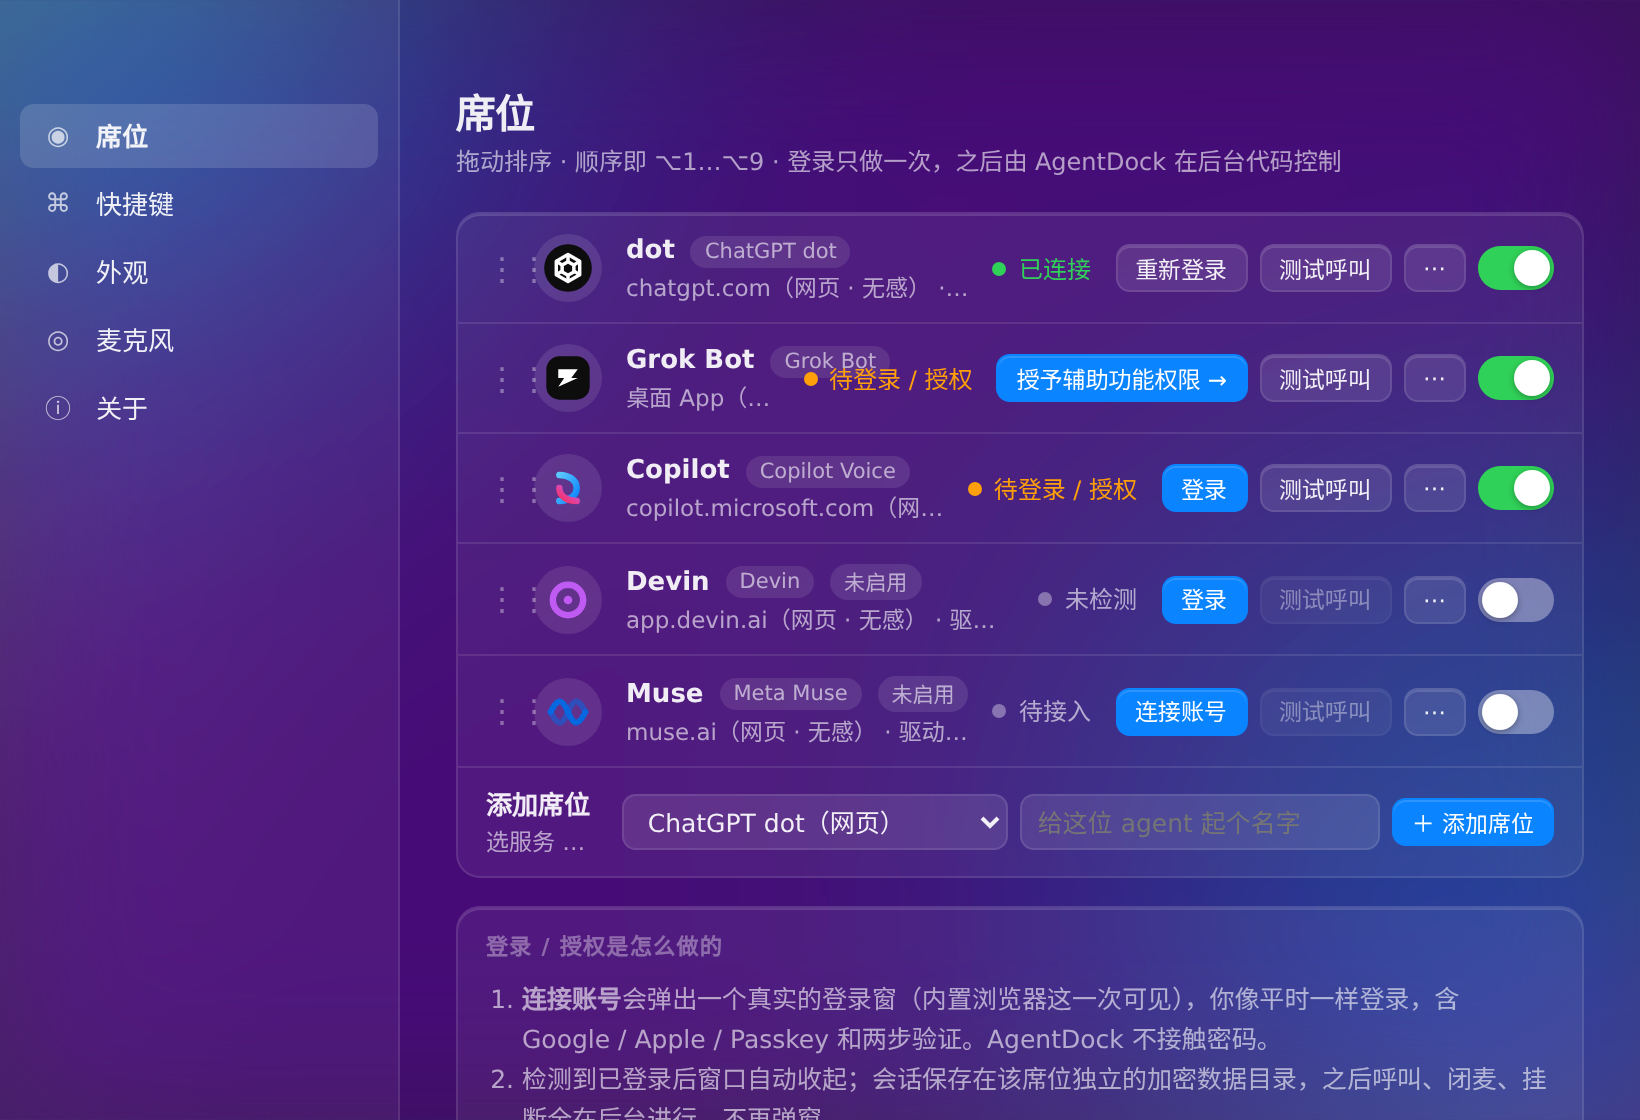
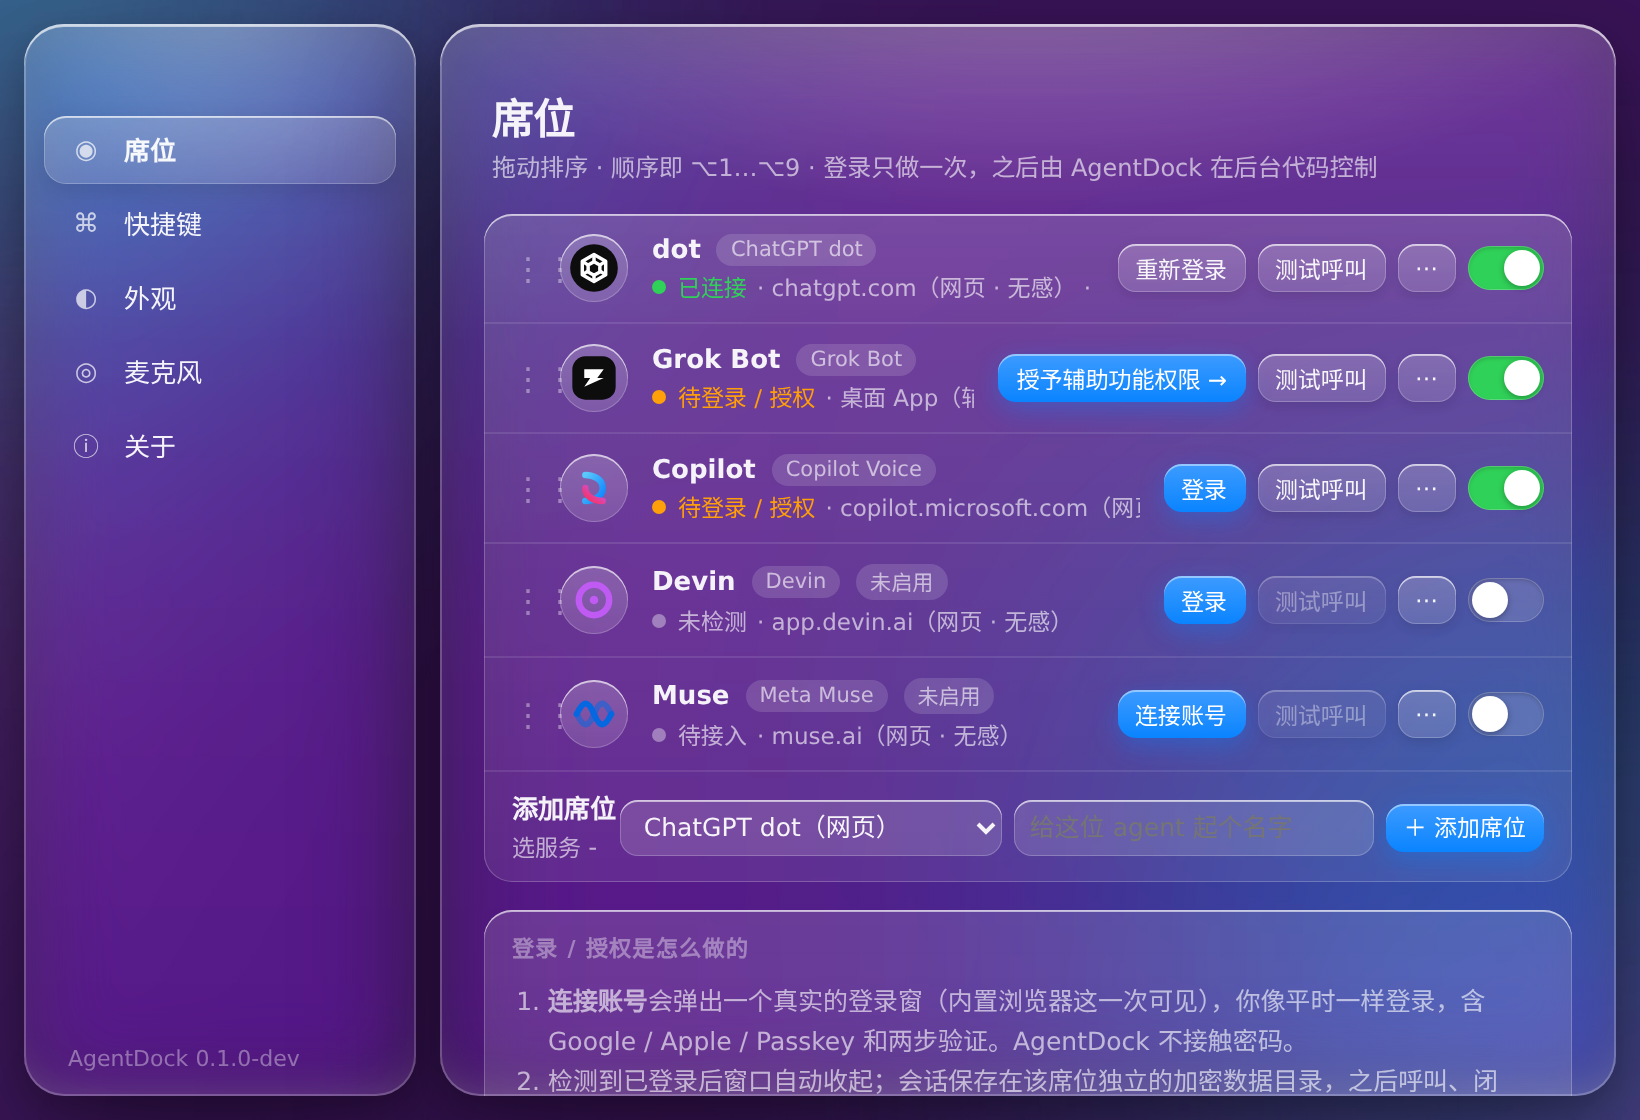
settings: Liquid-Glass sheets (transparent window, glass sidebar + lens groups), cooler light wallpaper, seat row layout

diff --git a/src/settings.css b/src/settings.css
@@ -1,63 +1,98 @@
-/* Settings window: system material behind (Sidebar vibrancy / Mica), translucent panes on top.
-   Follows the OS appearance; data-theme forces light/dark. */
+/* Settings window — Liquid Glass. The window is transparent: the wallpaper (or the OS material on
+   macOS/Windows) reads through. Sidebar and content are two floating sheets of clear glass; each
+   settings group is a lens inside the sheet. Follows the OS appearance; data-theme forces it. */
 :root {
   --font: -apple-system, BlinkMacSystemFont, "SF Pro Text", "Segoe UI Variable", "Segoe UI", "PingFang SC", "Microsoft YaHei", system-ui, sans-serif;
-  --fg: rgba(255,255,255,.92); --fg-2: rgba(255,255,255,.60); --fg-3: rgba(255,255,255,.36);
-  --bg: rgba(28,28,30,.72); --side: rgba(255,255,255,.05); --pane: rgba(255,255,255,.06); --pane-2: rgba(255,255,255,.10);
-  --line: rgba(255,255,255,.10); --rim: rgba(255,255,255,.14);
+  --fg: rgba(255,255,255,.94); --fg-2: rgba(255,255,255,.62); --fg-3: rgba(255,255,255,.38);
+  --blur: 22px;
+  --sheet-top: rgba(255,255,255,.20); --sheet: rgba(255,255,255,.09); --sheet-bottom: rgba(255,255,255,.05);
+  --lens: rgba(255,255,255,.08); --lens-2: rgba(255,255,255,.14); --lens-hover: rgba(255,255,255,.20);
+  --rim: rgba(255,255,255,.22); --rim-top: rgba(255,255,255,.60); --spec: rgba(255,255,255,.26);
+  --line: rgba(255,255,255,.10);
+  --shadow: 0 30px 70px rgba(0,0,0,.40), 0 6px 16px rgba(0,0,0,.18);
   --accent: #0a84ff; --green: #30d158; --amber: #ff9f0a; --red: #ff453a;
-  --sel: rgba(255,255,255,.14);
+  --sel: rgba(255,255,255,.18);
+  --bg-solid: #1c1c1e;
   --radius: 10px;
 }
 @media (prefers-color-scheme: light) {
   :root:not([data-theme="dark"]) {
-    --fg: rgba(0,0,0,.86); --fg-2: rgba(0,0,0,.55); --fg-3: rgba(0,0,0,.32);
-    --bg: rgba(246,246,248,.74); --side: rgba(255,255,255,.35); --pane: rgba(255,255,255,.55); --pane-2: rgba(255,255,255,.80);
-    --line: rgba(0,0,0,.07); --rim: rgba(255,255,255,.9); --sel: rgba(0,0,0,.08);
+    --fg: rgba(0,0,0,.86); --fg-2: rgba(0,0,0,.54); --fg-3: rgba(0,0,0,.32);
+    --blur: 26px;
+    --sheet-top: rgba(255,255,255,.72); --sheet: rgba(255,255,255,.46); --sheet-bottom: rgba(255,255,255,.40);
+    --lens: rgba(255,255,255,.40); --lens-2: rgba(255,255,255,.62); --lens-hover: rgba(255,255,255,.85);
+    --rim: rgba(255,255,255,.90); --rim-top: rgba(255,255,255,1); --spec: rgba(255,255,255,.7);
+    --line: rgba(0,0,0,.06);
+    --shadow: 0 30px 70px rgba(50,40,80,.22), 0 6px 16px rgba(50,40,80,.08);
+    --sel: rgba(255,255,255,.75);
+    --bg-solid: #f5f5f7;
   }
 }
 :root[data-theme="light"] {
-  --fg: rgba(0,0,0,.86); --fg-2: rgba(0,0,0,.55); --fg-3: rgba(0,0,0,.32);
-  --bg: rgba(246,246,248,.74); --side: rgba(255,255,255,.35); --pane: rgba(255,255,255,.55); --pane-2: rgba(255,255,255,.80);
-  --line: rgba(0,0,0,.07); --rim: rgba(255,255,255,.9); --sel: rgba(0,0,0,.08);
+  --fg: rgba(0,0,0,.86); --fg-2: rgba(0,0,0,.54); --fg-3: rgba(0,0,0,.32);
+  --blur: 26px;
+  --sheet-top: rgba(255,255,255,.72); --sheet: rgba(255,255,255,.46); --sheet-bottom: rgba(255,255,255,.40);
+  --lens: rgba(255,255,255,.40); --lens-2: rgba(255,255,255,.62); --lens-hover: rgba(255,255,255,.85);
+  --rim: rgba(255,255,255,.90); --rim-top: rgba(255,255,255,1); --spec: rgba(255,255,255,.7);
+  --line: rgba(0,0,0,.06);
+  --shadow: 0 30px 70px rgba(50,40,80,.22), 0 6px 16px rgba(50,40,80,.08);
+  --sel: rgba(255,255,255,.75);
+  --bg-solid: #f5f5f7;
 }
-html[data-vibrancy="1"] body { background: transparent; }
-html[data-vibrancy="1"] .win { backdrop-filter: none; -webkit-backdrop-filter: none; }
+/* On hosts with a system material the OS already blurs behind the window. */
+html[data-vibrancy="1"] .sheet { backdrop-filter: none; -webkit-backdrop-filter: none; }
 
 * { box-sizing: border-box; }
 html, body { margin: 0; height: 100%; font-family: var(--font); color: var(--fg); -webkit-font-smoothing: antialiased; }
-body { background: var(--bg); overflow: hidden; user-select: none; -webkit-user-select: none; }
+body { background: transparent; overflow: hidden; user-select: none; -webkit-user-select: none; }
 button, input, select { font: inherit; color: inherit; }
 button { cursor: pointer; }
 
-.win { display: grid; grid-template-columns: 200px 1fr; height: 100%; backdrop-filter: blur(40px) saturate(160%); -webkit-backdrop-filter: blur(40px) saturate(160%); }
-.side { background: var(--side); border-right: 1px solid var(--line); display: flex; flex-direction: column; padding: 0 10px 12px; }
-.side__spacer { height: 52px; }
-.nav { display: grid; gap: 2px; }
-.nav__item { display: flex; align-items: center; gap: 10px; height: 32px; padding: 0 10px; border: 0; border-radius: 7px; background: transparent; color: var(--fg); font-size: 13px; text-align: left; }
-.nav__item:hover { background: var(--sel); }
-.nav__item.is-active { background: var(--sel); font-weight: 600; }
+.win { display: grid; grid-template-columns: 196px 1fr; gap: 12px; height: 100%; padding: 12px; }
+
+/* a sheet of clear glass */
+.sheet, .side, .main {
+  position: relative; border-radius: 20px;
+  background: linear-gradient(180deg, var(--sheet-top) 0%, var(--sheet) 30%, var(--sheet-bottom) 100%);
+  backdrop-filter: blur(var(--blur)) saturate(170%) brightness(1.04);
+  -webkit-backdrop-filter: blur(var(--blur)) saturate(170%) brightness(1.04);
+  box-shadow: inset 0 1.5px 0 var(--rim-top), inset 0 0 0 1px var(--rim), inset 0 -16px 28px -22px var(--spec), var(--shadow);
+}
+.side::before, .main::before {
+  content: ""; position: absolute; inset: 0; border-radius: inherit; pointer-events: none;
+  background: radial-gradient(80% 40% at 50% -10%, var(--spec) 0%, transparent 70%);
+}
+.side { display: flex; flex-direction: column; padding: 0 10px 12px; }
+.side__spacer { height: 46px; }
+.nav { display: grid; gap: 3px; position: relative; }
+.nav__item { display: flex; align-items: center; gap: 10px; height: 34px; padding: 0 12px; border: 0; border-radius: 11px; background: transparent; color: var(--fg); font-size: 13px; text-align: left; transition: background 160ms ease, transform 200ms cubic-bezier(.32,.72,0,1); }
+.nav__item:hover { background: var(--lens); }
+.nav__item.is-active {
+  background: linear-gradient(180deg, var(--lens-hover), var(--lens-2)); font-weight: 600;
+  box-shadow: inset 0 1px 0 var(--rim-top), inset 0 0 0 .5px var(--rim), 0 4px 12px rgba(0,0,0,.12);
+}
 .nav__item:focus-visible { outline: 2px solid var(--accent); outline-offset: -2px; }
 .nav__ic { width: 18px; text-align: center; opacity: .75; font-size: 13px; }
-.side__foot { margin-top: auto; font-size: 11px; color: var(--fg-3); padding: 0 10px; }
+.side__foot { margin-top: auto; font-size: 11px; color: var(--fg-3); padding: 0 12px; }
 
-.main { display: flex; flex-direction: column; min-width: 0; }
-.main__head { padding: 44px 28px 10px; }
-.main__head h1 { margin: 0; font-size: 20px; font-weight: 700; letter-spacing: -.02em; }
+.main { display: flex; flex-direction: column; min-width: 0; overflow: hidden; }
+.main__head { padding: 34px 26px 8px; }
+.main__head h1 { margin: 0; font-size: 21px; font-weight: 700; letter-spacing: -.02em; }
 .main__head p { margin: 4px 0 0; font-size: 12px; color: var(--fg-2); min-height: 1em; }
-.page { padding: 8px 28px 28px; overflow: auto; flex: 1; }
+.page { padding: 8px 22px 22px; overflow: auto; flex: 1; }
 
-.group { background: var(--pane); border: 1px solid var(--line); border-radius: 12px; box-shadow: inset 0 1px 0 var(--rim); overflow: hidden; margin-bottom: 14px; }
+.group { background: linear-gradient(180deg, var(--lens-2), var(--lens)); border-radius: 14px; box-shadow: inset 0 1px 0 var(--rim-top), inset 0 0 0 .5px var(--rim); overflow: hidden; margin-bottom: 14px; }
 .group__title { font-size: 11px; font-weight: 600; letter-spacing: .06em; text-transform: uppercase; color: var(--fg-3); padding: 12px 14px 4px; }
 .row { display: flex; align-items: center; gap: 12px; padding: 10px 14px; border-top: 1px solid var(--line); min-height: 52px; }
 .row:first-child, .group__title + .row { border-top: 0; }
 .row__text { flex: 1; min-width: 0; }
 .row__name { font-size: 13px; font-weight: 600; display: flex; align-items: center; gap: 8px; white-space: nowrap; }
-.row__sub { font-size: 11.5px; color: var(--fg-2); margin-top: 2px; white-space: nowrap; overflow: hidden; text-overflow: ellipsis; }
+.row__sub { font-size: 11.5px; color: var(--fg-2); margin-top: 3px; white-space: nowrap; overflow: hidden; text-overflow: ellipsis; display: flex; align-items: center; gap: 5px; }
+.row__sub .status { font-size: 11.5px; }
 .row.is-dragging { opacity: .45; }
 .handle { cursor: grab; color: var(--fg-3); width: 12px; text-align: center; }
 
-.avatar { width: 34px; height: 34px; border-radius: 50%; overflow: hidden; display: grid; place-items: center; background: var(--pane-2); flex: none; position: relative; }
+.avatar { width: 34px; height: 34px; border-radius: 50%; overflow: hidden; display: grid; place-items: center; background: linear-gradient(180deg, var(--lens-hover), var(--lens-2)); box-shadow: inset 0 1px 0 var(--rim-top), inset 0 0 0 .5px var(--rim); flex: none; position: relative; }
 .avatar svg, .avatar img { width: 26px; height: 26px; display: block; object-fit: cover; }
 .avatar img { width: 100%; height: 100%; }
 .avatar.lg { width: 56px; height: 56px; }
@@ -70,34 +105,34 @@ button { cursor: pointer; }
 .status[data-s="unavailable"] { color: var(--red); } .status[data-s="unavailable"]::before { background: var(--red); }
 .status[data-s="pending"], .status[data-s="unknown"] { color: var(--fg-2); }
 
-.chip { white-space: nowrap; font-size: 10.5px; padding: 2px 7px; border-radius: 999px; background: var(--pane-2); color: var(--fg-2); font-weight: 500; }
+.chip { white-space: nowrap; font-size: 10.5px; padding: 2px 7px; border-radius: 999px; background: var(--lens-2); color: var(--fg-2); font-weight: 500; }
 
-.btn { height: 28px; padding: 0 12px; border-radius: 7px; border: 1px solid var(--line); background: var(--pane-2); color: var(--fg); font-size: 12.5px; font-weight: 500; white-space: nowrap; box-shadow: inset 0 1px 0 var(--rim); }
+.btn { height: 28px; padding: 0 12px; border-radius: 9px; border: 0; background: linear-gradient(180deg, var(--lens-hover), var(--lens-2)); color: var(--fg); font-size: 12.5px; font-weight: 500; white-space: nowrap; box-shadow: inset 0 1px 0 var(--rim-top), inset 0 0 0 .5px var(--rim), 0 2px 6px rgba(0,0,0,.10); }
 .btn:hover { filter: brightness(1.08); }
 .btn:active { transform: translateY(1px); }
-.btn.primary { background: var(--accent); border-color: transparent; color: #fff; }
+.btn.primary { background: linear-gradient(180deg, #3d9bff, var(--accent)); color: #fff; box-shadow: inset 0 1px 0 rgba(255,255,255,.45), 0 4px 12px rgba(10,132,255,.35); }
 .btn.danger { color: var(--red); }
 .btn.sm { height: 24px; padding: 0 9px; font-size: 11.5px; }
 .btn:disabled { opacity: .45; cursor: default; }
 .btn:focus-visible { outline: 2px solid var(--accent); outline-offset: 2px; }
 .actions { display: flex; gap: 6px; align-items: center; }
 
-.switch { position: relative; width: 38px; height: 22px; border-radius: 11px; background: var(--fg-3); border: 0; transition: background 160ms; flex: none; }
+.switch { position: relative; width: 38px; height: 22px; border-radius: 11px; background: var(--lens-2); box-shadow: inset 0 0 0 .5px var(--rim), inset 0 1px 2px rgba(0,0,0,.18); border: 0; transition: background 160ms; flex: none; }
 .switch::after { content: ""; position: absolute; top: 2px; left: 2px; width: 18px; height: 18px; border-radius: 50%; background: #fff; box-shadow: 0 1px 3px rgba(0,0,0,.3); transition: transform 200ms cubic-bezier(.32,.72,0,1); }
 .switch[aria-checked="true"] { background: var(--green); }
 .switch[aria-checked="true"]::after { transform: translateX(16px); }
 
-.seg { display: inline-flex; background: var(--pane-2); border-radius: 8px; padding: 2px; border: 1px solid var(--line); }
+.seg { display: inline-flex; background: var(--lens); border-radius: 9px; padding: 2px; box-shadow: inset 0 0 0 .5px var(--rim); }
 .seg button { border: 0; background: transparent; height: 24px; padding: 0 12px; border-radius: 6px; font-size: 12.5px; color: var(--fg-2); }
-.seg button.is-on { background: var(--bg); color: var(--fg); font-weight: 600; box-shadow: 0 1px 3px rgba(0,0,0,.18); }
+.seg button.is-on { background: linear-gradient(180deg, var(--lens-hover), var(--lens-2)); color: var(--fg); font-weight: 600; box-shadow: inset 0 1px 0 var(--rim-top), 0 1px 3px rgba(0,0,0,.18); }
 
-select, input[type="text"] { height: 28px; padding: 0 8px; border-radius: 7px; border: 1px solid var(--line); background: var(--pane-2); color: var(--fg); font-size: 12.5px; }
+select, input[type="text"] { height: 28px; padding: 0 8px; border-radius: 9px; border: 0; background: var(--lens-2); color: var(--fg); font-size: 12.5px; box-shadow: inset 0 1px 0 var(--rim-top), inset 0 0 0 .5px var(--rim); }
 input[type="range"] { accent-color: var(--accent); width: 160px; }
 
 .cards { display: grid; grid-template-columns: repeat(4, 1fr); gap: 10px; padding: 10px 14px 14px; }
-.card { border: 1.5px solid var(--line); border-radius: 12px; background: var(--pane-2); padding: 14px 8px 10px; display: grid; justify-items: center; gap: 10px; cursor: pointer; }
+.card { border-radius: 14px; background: linear-gradient(180deg, var(--lens-2), var(--lens)); box-shadow: inset 0 1px 0 var(--rim-top), inset 0 0 0 .5px var(--rim); padding: 14px 8px 10px; display: grid; justify-items: center; gap: 10px; cursor: pointer; transition: transform 200ms cubic-bezier(.32,.72,0,1); }
 .card:hover { filter: brightness(1.06); }
-.card.is-on { border-color: var(--accent); background: color-mix(in srgb, var(--accent) 14%, var(--pane-2)); }
+.card.is-on { box-shadow: inset 0 1px 0 var(--rim-top), inset 0 0 0 1.5px var(--accent), 0 6px 18px rgba(10,132,255,.25); background: linear-gradient(180deg, color-mix(in srgb, var(--accent) 22%, var(--lens-hover)), color-mix(in srgb, var(--accent) 12%, var(--lens))); transform: translateY(-1px); }
 .card__pre { height: 28px; display: flex; align-items: center; gap: 4px; }
 .card__pre i { display: block; background: var(--fg); opacity: .8; }
 .card__pre .d { width: 10px; height: 10px; border-radius: 50%; }
@@ -107,15 +142,15 @@ input[type="range"] { accent-color: var(--accent); width: 160px; }
 .card span { font-size: 12px; }
 
 .key { display: inline-flex; gap: 4px; }
-.key kbd { font: 600 11.5px/1 var(--font); padding: 5px 7px; border-radius: 6px; background: var(--pane-2); border: 1px solid var(--line); box-shadow: 0 1px 0 var(--line); min-width: 24px; text-align: center; }
+.key kbd { font: 600 11.5px/1 var(--font); padding: 5px 7px; border-radius: 7px; background: linear-gradient(180deg, var(--lens-hover), var(--lens-2)); border: 0; box-shadow: inset 0 1px 0 var(--rim-top), inset 0 0 0 .5px var(--rim), 0 1.5px 0 rgba(0,0,0,.15); min-width: 24px; text-align: center; }
 .key.is-rec kbd { border-color: var(--accent); color: var(--accent); }
 .key.is-conflict kbd { border-color: var(--red); color: var(--red); }
 
-.toast { position: fixed; left: 50%; bottom: 18px; transform: translate(-50%, 20px); opacity: 0; background: var(--fg); color: var(--bg); padding: 8px 14px; border-radius: 999px; font-size: 12.5px; font-weight: 600; transition: all 240ms cubic-bezier(.32,.72,0,1); pointer-events: none; }
+.toast { position: fixed; left: 50%; bottom: 18px; transform: translate(-50%, 20px); opacity: 0; background: var(--fg); color: var(--bg-solid); padding: 8px 14px; border-radius: 999px; font-size: 12.5px; font-weight: 600; transition: all 240ms cubic-bezier(.32,.72,0,1); pointer-events: none; }
 .toast.is-on { opacity: 1; transform: translate(-50%, 0); }
 
 .steps { margin: 0; padding: 6px 14px 14px 32px; font-size: 12.5px; color: var(--fg-2); line-height: 1.6; }
 .note { font-size: 12px; color: var(--fg-2); padding: 0 14px 12px; line-height: 1.55; }
-.level { height: 6px; border-radius: 3px; background: var(--pane-2); overflow: hidden; width: 160px; }
+.level { height: 6px; border-radius: 3px; background: var(--lens-2); overflow: hidden; width: 160px; }
 .level i { display: block; height: 100%; width: 0; background: var(--green); transition: width 80ms linear; }
 .hidden { display: none !important; }

diff --git a/src/settings.ts b/src/settings.ts
@@ -81,8 +81,8 @@ async function renderSeats() {
     const where = s.driver.kind === "web" ? `${new URL(s.driver.url).host}（网页 · 无感）` : `桌面 App（辅助功能自动化 · 半无感）`;
     const acct = s.account ? ` · ${esc(s.account)}` : "";
     const chips = s.enabled ? "" : '<span class="chip">未启用</span>';
-    r.append(el("div", "row__text", `<div class="row__name">${esc(s.name)} <span class="chip">${esc(s.service)}</span>${chips}</div><div class="row__sub" title="${s.driver_verified ? "" : "驱动选择器尚未在真机校验"}">${where}${acct}${s.driver_verified ? "" : " · 驱动待校验"}</div>`));
-    const st = el("span", "status", STATUS_LABEL[s.status] ?? s.status); st.dataset.s = s.status; r.append(st);
+    const statusHtml = `<span class="status" data-s="${s.status}">${STATUS_LABEL[s.status] ?? s.status}</span>`;
+    r.append(el("div", "row__text", `<div class="row__name">${esc(s.name)} <span class="chip">${esc(s.service)}</span>${chips}</div><div class="row__sub" title="${where}${acct}${s.driver_verified ? "" : " · 驱动选择器尚未在真机校验"}">${statusHtml} · ${where}${acct}</div>`));
 
     const acts = el("div", "actions");
     const needsLogin = s.status !== "connected";
